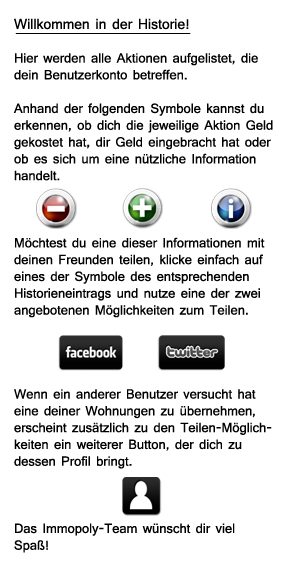
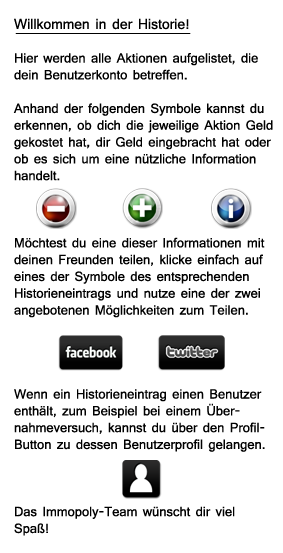
Refactor Hilfetext Historie

Changed region(s): [[0.0283, 0.0922, 0.9611, 0.9837], [0.0283, 0.0307, 0.6784, 0.0615], [0.7633, 0.8915, 0.8198, 0.953]]

diff --git a/ImmopolyIPhone/ImmopolyIPhone/AbstractViewController.m b/ImmopolyIPhone/ImmopolyIPhone/AbstractViewController.m
@@ -132,7 +132,7 @@
             break;
         case INFO_HISTORY: 
             helperTextImage = [[UIImageView alloc]initWithImage:[UIImage imageNamed:@"infotext_history"]];
-            helperTextImage.frame = CGRectMake(0, 0, 283, 574); 
+            helperTextImage.frame = CGRectMake(0, 0, 283, 553); 
             break;
         case INFO_USER: 
             helperTextImage = [[UIImageView alloc]initWithImage:[UIImage imageNamed:@"infotext_user"]];
